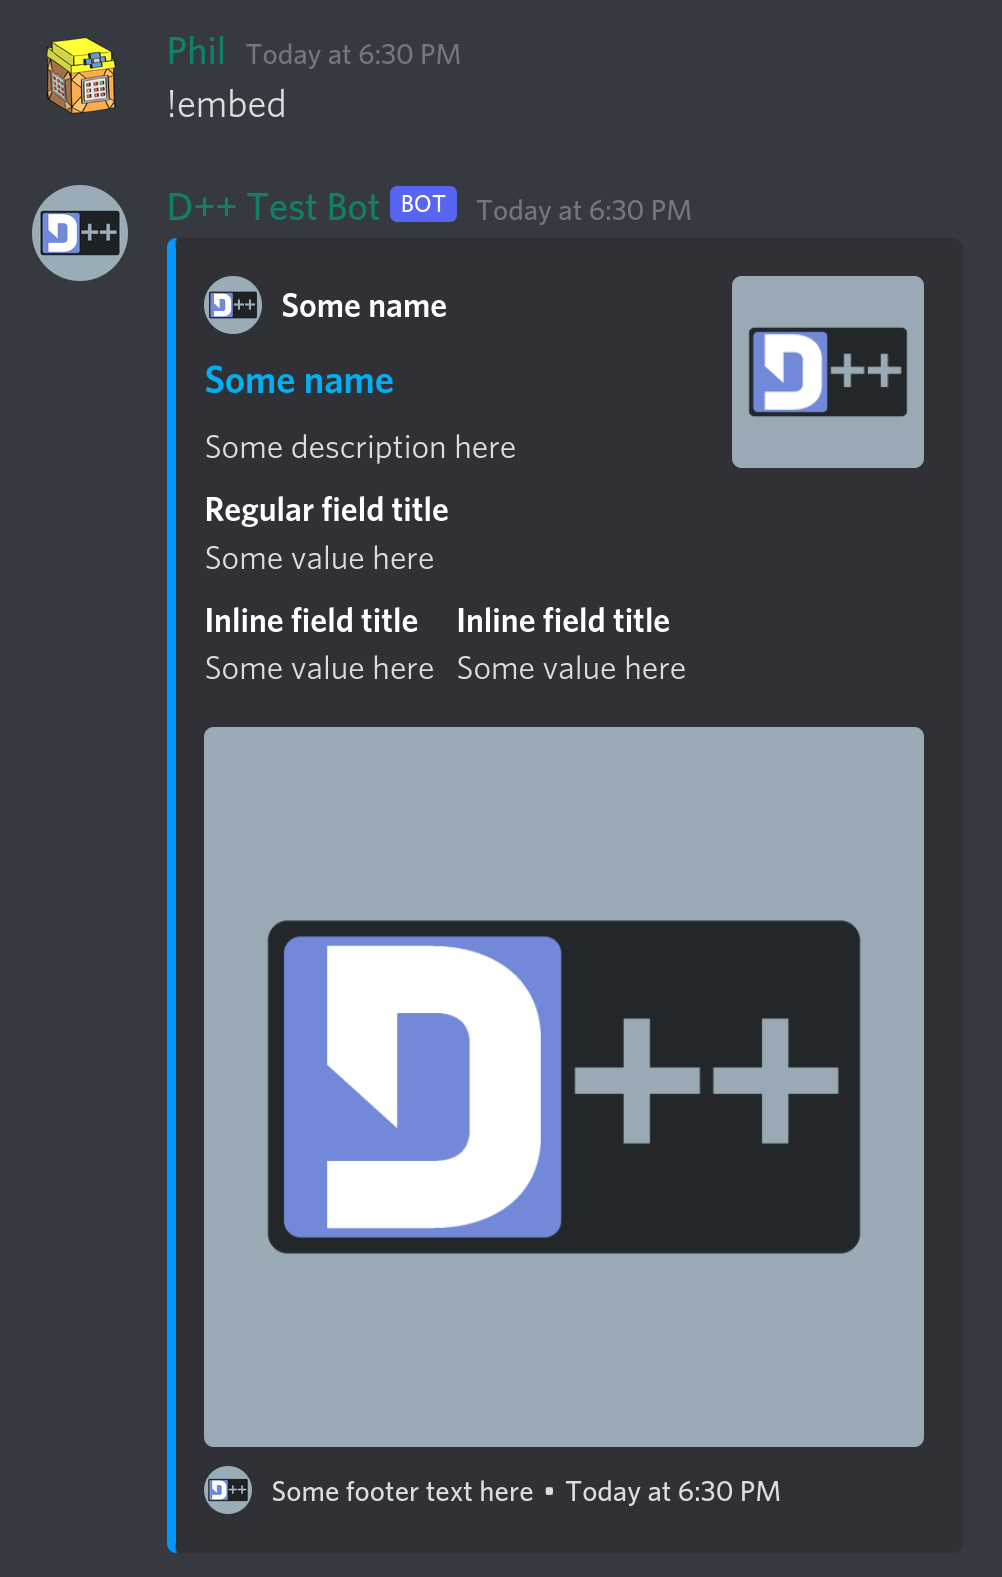
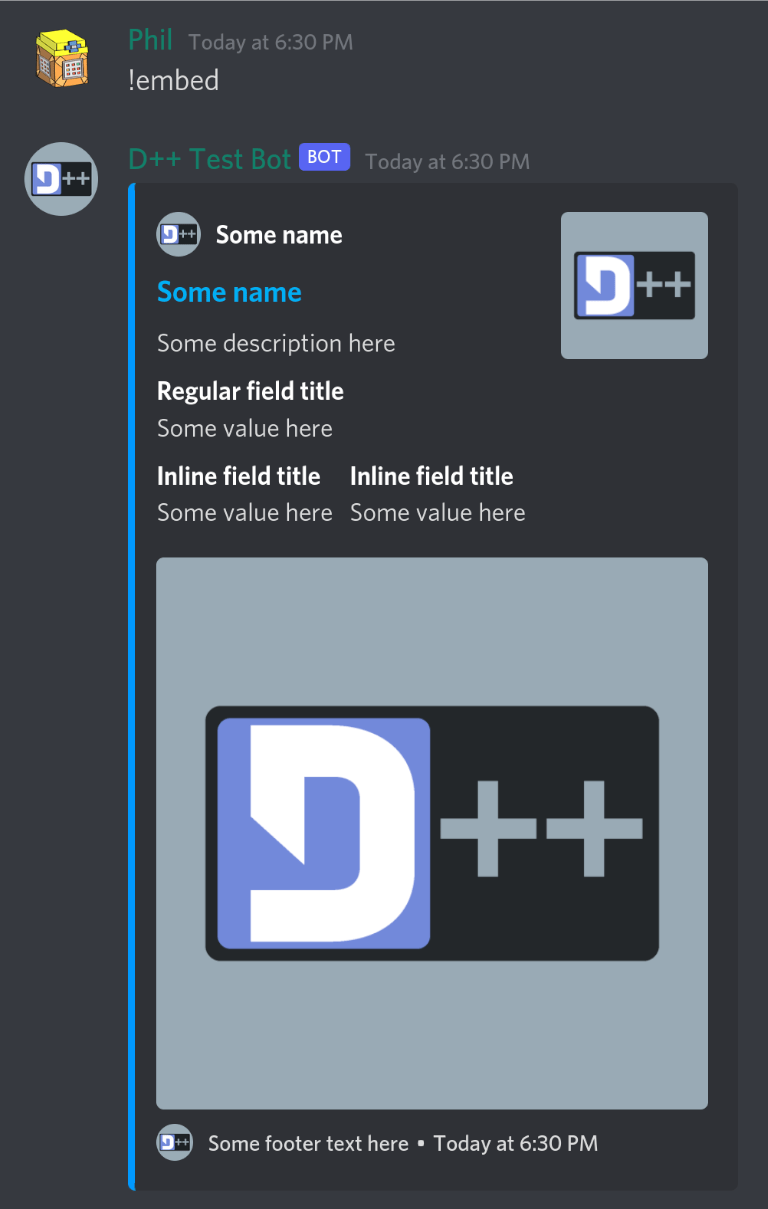
automatic commit

diff --git a/embed-message.html b/embed-message.html
@@ -113,7 +113,7 @@ $(document).ready(function(){initNavTree('embed-message.html',''); initResizable
 <div class="line">    bot.on_message_create([&amp;bot](<span class="keyword">const</span> <a class="code hl_struct" href="structdpp_1_1message__create__t.html">dpp::message_create_t</a> &amp; event) {</div>
 <div class="line">        <span class="keywordflow">if</span> (event.<a class="code hl_variable" href="structdpp_1_1message__create__t.html#a93c10b3fce36e161eca41edcd32857d0">msg</a>-&gt;<a class="code hl_variable" href="structdpp_1_1message.html#acb17877db423d2ac4b103a67e1ae2ff6">content</a> == <span class="stringliteral">&quot;!embed&quot;</span>) {</div>
 <div class="line"> </div>
-<div class="line">            <span class="comment">/* create the embed and send it into the channel */</span></div>
+<div class="line">            <span class="comment">/* create the embed */</span></div>
 <div class="line">            dpp::embed embed = dpp::embed().</div>
 <div class="line">                set_color(0x0099ff).</div>
 <div class="line">                set_title(<span class="stringliteral">&quot;Some name&quot;</span>).</div>
@@ -139,7 +139,8 @@ $(document).ready(function(){initNavTree('embed-message.html',''); initResizable
 <div class="line">                set_footer(dpp::embed_footer().set_text(<span class="stringliteral">&quot;Some footer text here&quot;</span>).set_icon(<span class="stringliteral">&quot;https://dpp.dev/DPP-Logo.png&quot;</span>)).</div>
 <div class="line">                set_timestamp(time(0));</div>
 <div class="line"> </div>
-<div class="line">            bot.message_create(dpp::message(event.msg-&gt;channel_id, embed));</div>
+<div class="line">            <span class="comment">/* reply with the created embed */</span></div>
+<div class="line">            bot.message_create(dpp::message(event.msg-&gt;channel_id, embed).set_reference(event.msg-&gt;id));</div>
 <div class="line">        }</div>
 <div class="line">    });</div>
 <div class="line"> </div>
